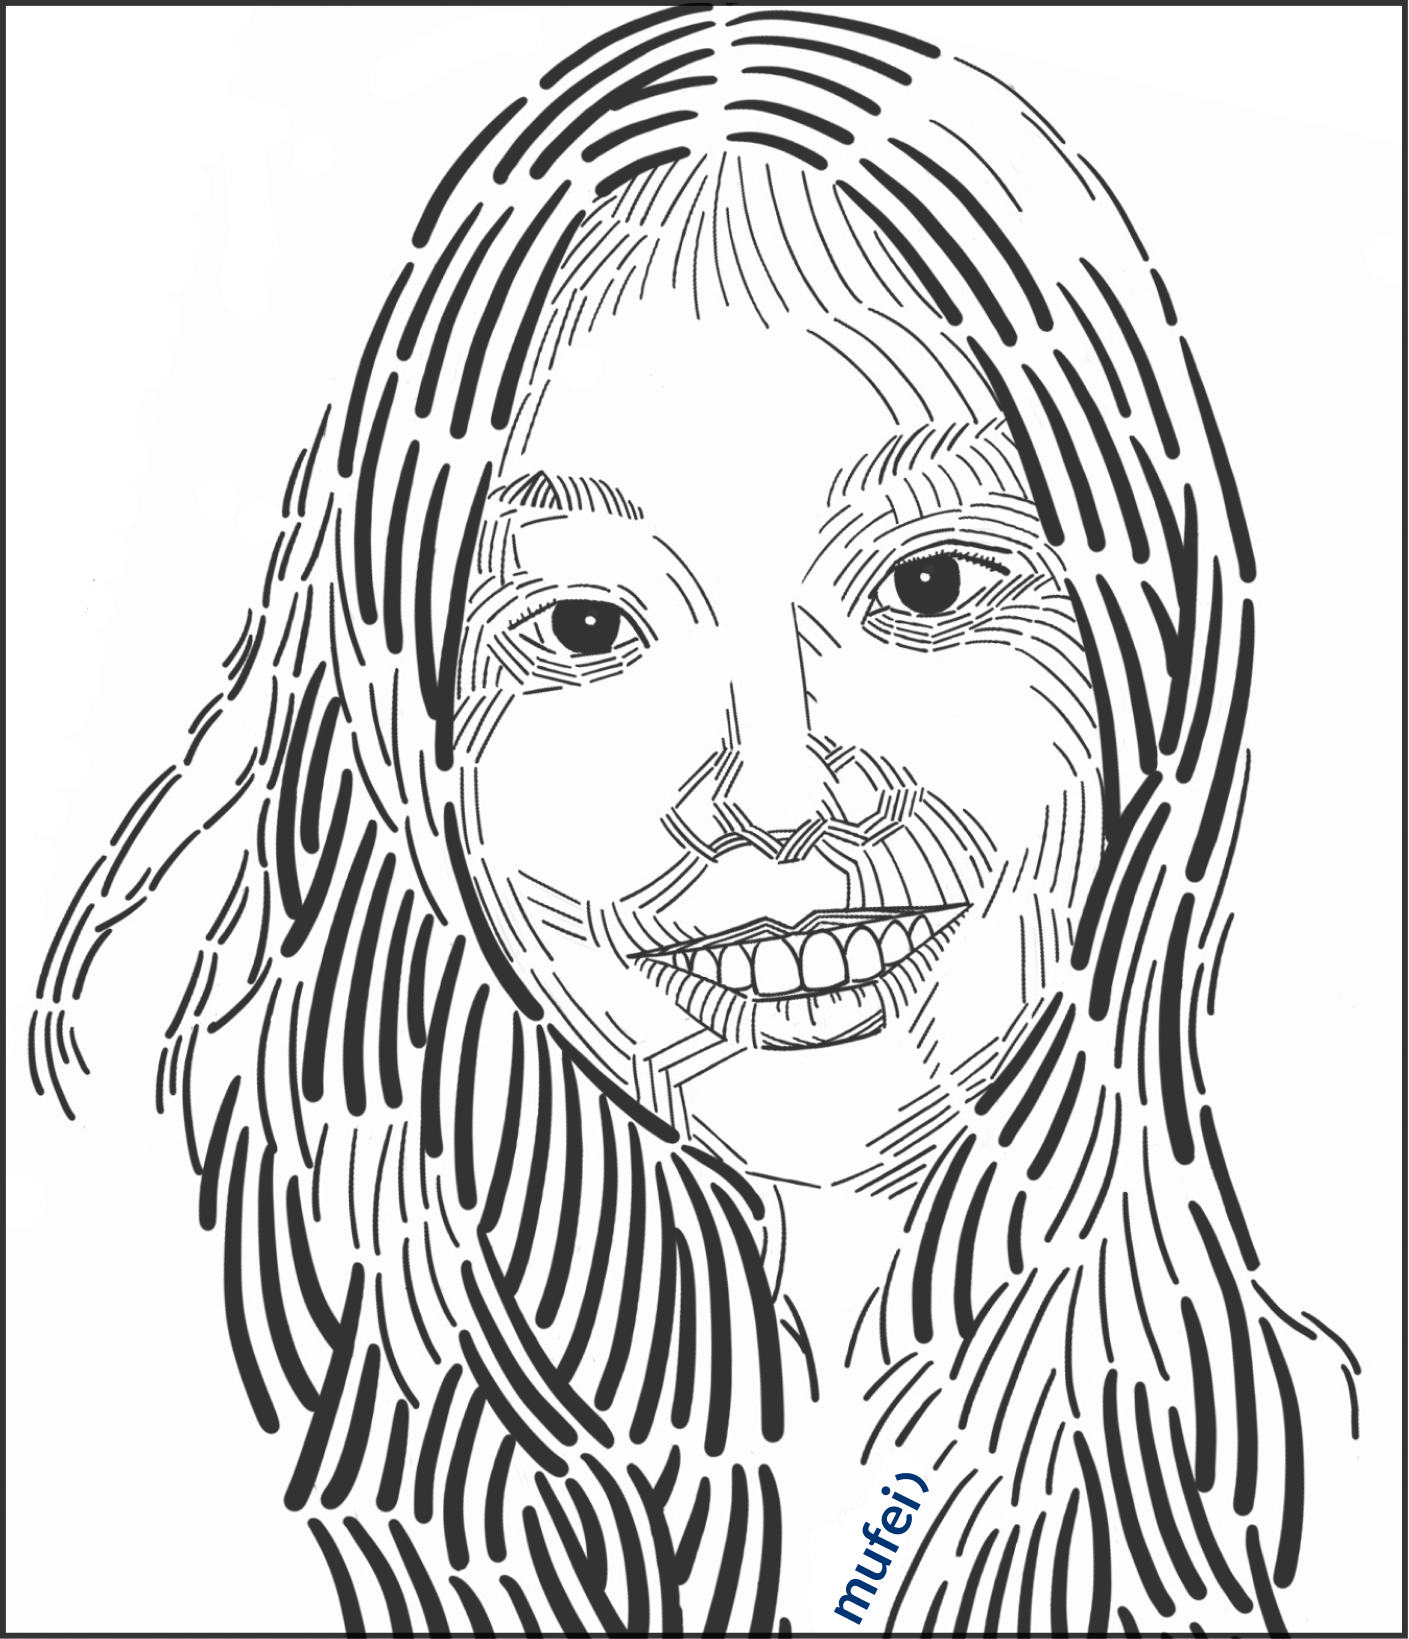
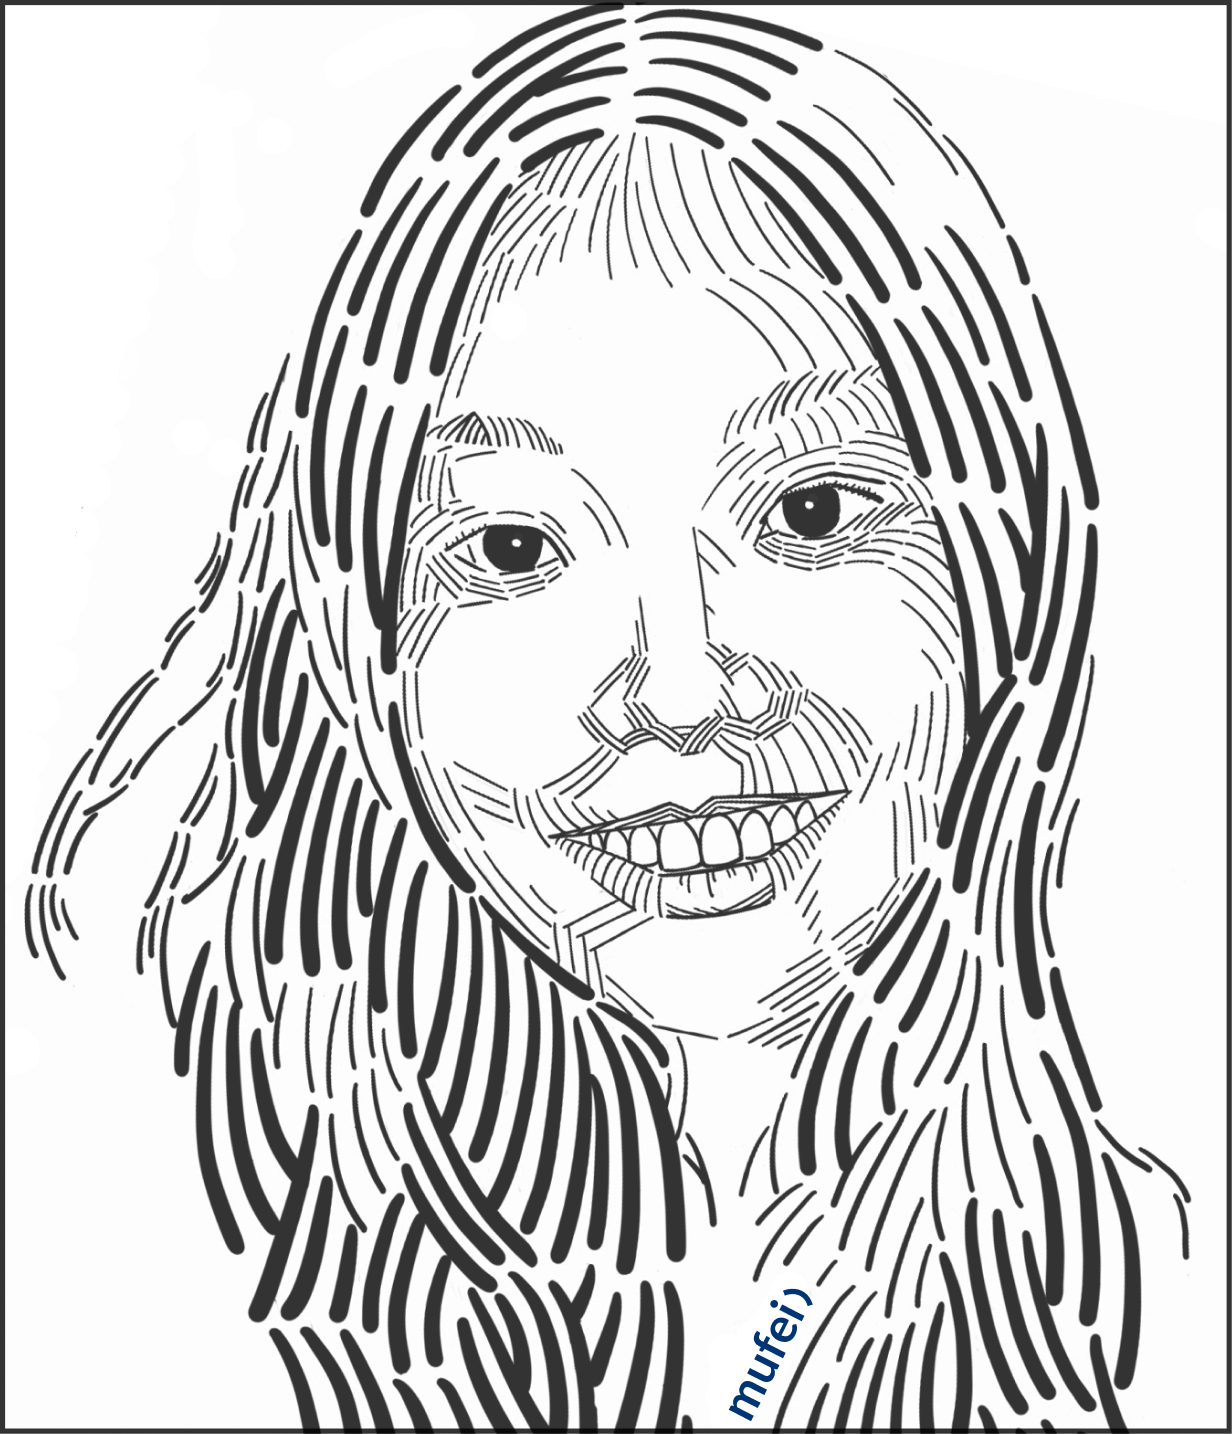
about

diff --git a/src/static/css/pages/aboutWeb.scss b/src/static/css/pages/aboutWeb.scss
@@ -34,11 +34,12 @@
     font-size: 22px;
     font-weight: 400;
     font-family: 'Lato', sans-serif;
-    line-height: 1.3em;
+    line-height: 1.35em;
     opacity: 0.8;
   }
   .me{
     margin-left: 1.25em;
-    margin-top: 0.55em;
+    margin-top: 0.65em;
+    margin-bottom: 0;
   }
 }

diff --git a/src/pages/aboutWeb.js b/src/pages/aboutWeb.js
@@ -30,7 +30,7 @@ const AboutWeb = () => (
             src={`${PUBLIC_URL}/images/myPic.png`}
             className="me"
             alt=""
-            style={{ width: '352px' }}
+            style={{ width: '308px' }}
           />
         </div>
         <RegularText>
